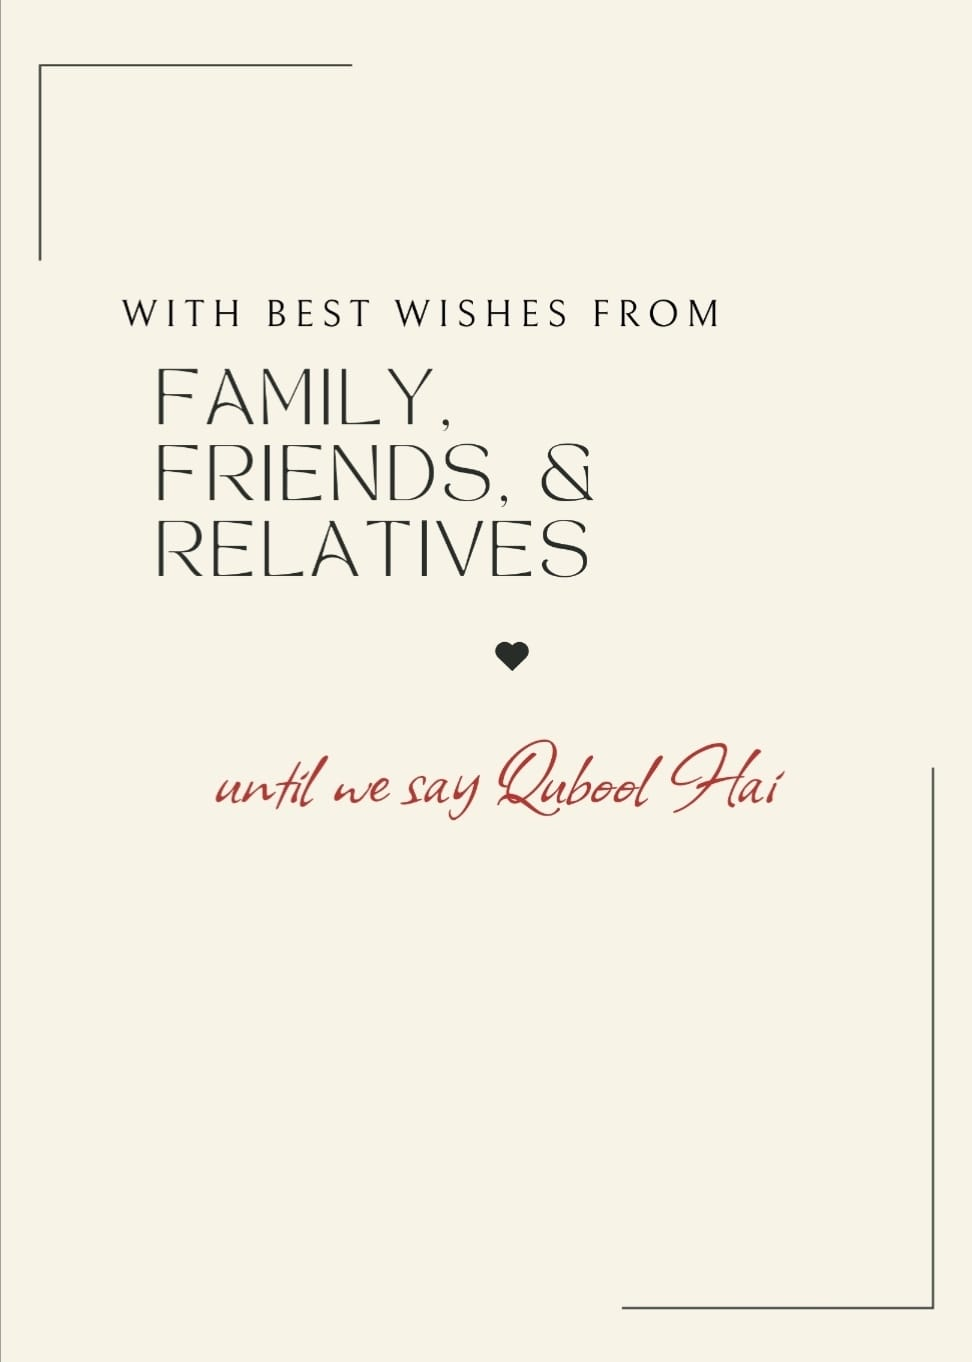
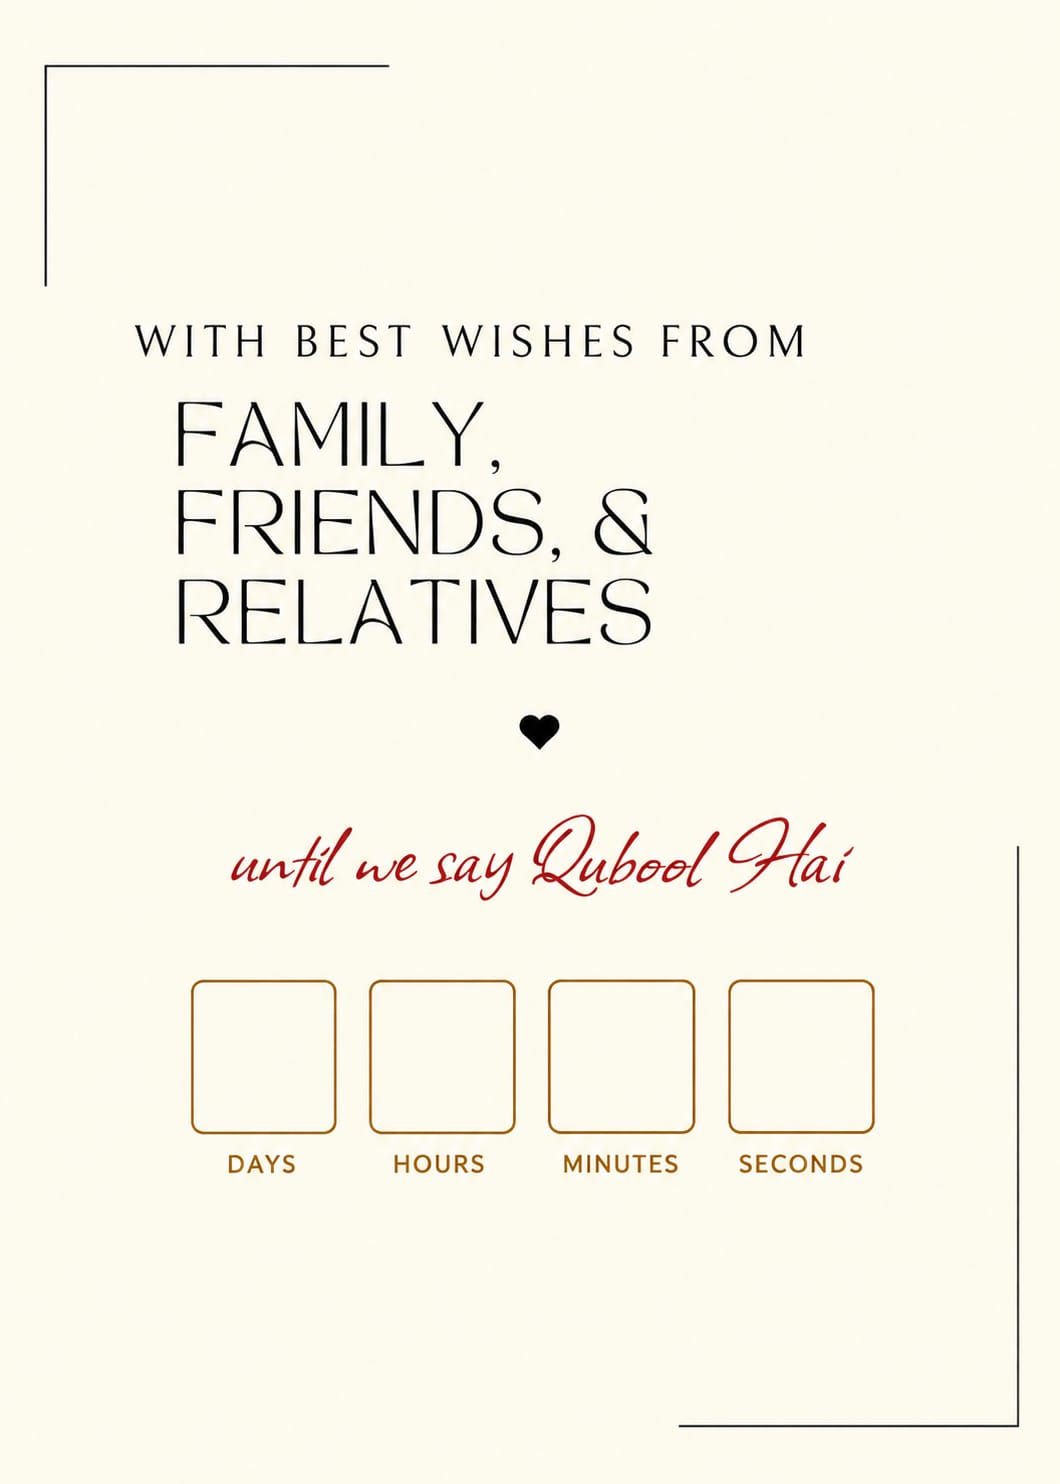
updated

diff --git a/index.html b/index.html
@@ -55,7 +55,7 @@
   /* gentle looping invitation glow so it's obvious this is tappable */
   @keyframes invitePulse{
     0%, 100% { box-shadow:0 0 0 rgba(227,201,138,0); }
-    50%      { box-shadow:0 0 18px 4px rgba(227,201,138,.45); }
+    50%      { box-shadow:0 0 25px 8px rgba(227,201,138,.45); }
   }
   #btnEnter{
     animation: invitePulse 2.4s ease-in-out infinite;
@@ -71,10 +71,10 @@
      (border box: x 341–679, y 1182–1265 out of 1024×1536), with a small
      comfortable margin added around it for an easy tap target */
   #btnEnter{
-    left:32.5%;
-    width:35.5%;
-    top:54.5%;
-    height:4.1%;
+    left:30.5%;
+    width:39.5%;
+    top:56.3%;
+    height:4%;
   }
 </style>
 </head>

diff --git a/invitation.html b/invitation.html
@@ -79,7 +79,7 @@
     position: absolute;
     left: 25%;
     width: 50%;
-    bottom: 3%;
+    bottom: 3.1%;
     height: 6%;
     border-radius: 8px;
     background: transparent;
@@ -169,10 +169,10 @@
   .cd-num.flip { opacity: 0.2; }
 
   /* adjust top/left after checking your closing.jpg boxes */
-  #cd-days  { top: 84%; left: 24%; }
-  #cd-hours { top: 84%; left: 41%; }
-  #cd-mins  { top: 84%; left: 56%; }
-  #cd-secs  { top: 84%; left: 73%; }
+  #cd-days  { top: 71.5%; left: 24%; }
+  #cd-hours { top: 71.5%; left: 41%; }
+  #cd-mins  { top: 71.5%; left: 58%; }
+  #cd-secs  { top: 71.5%; left: 75%; }
 
 </style>
 </head>
